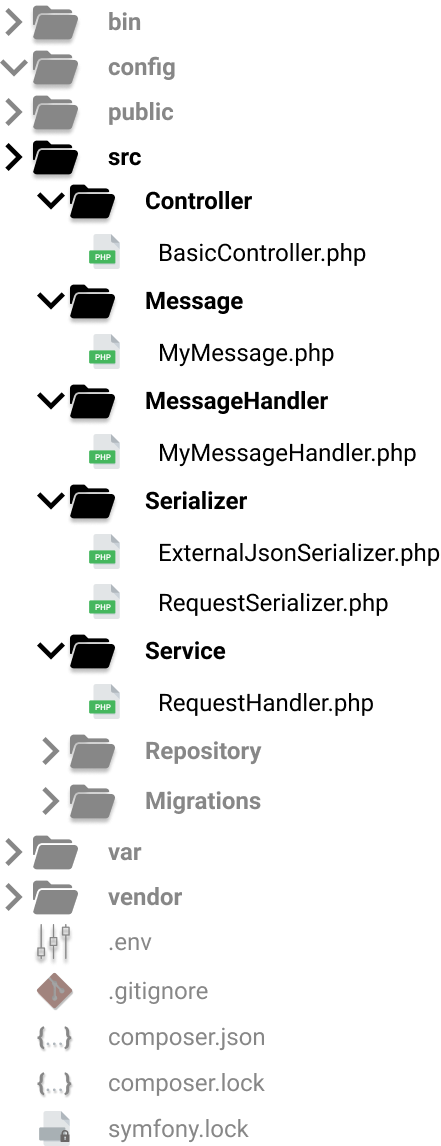
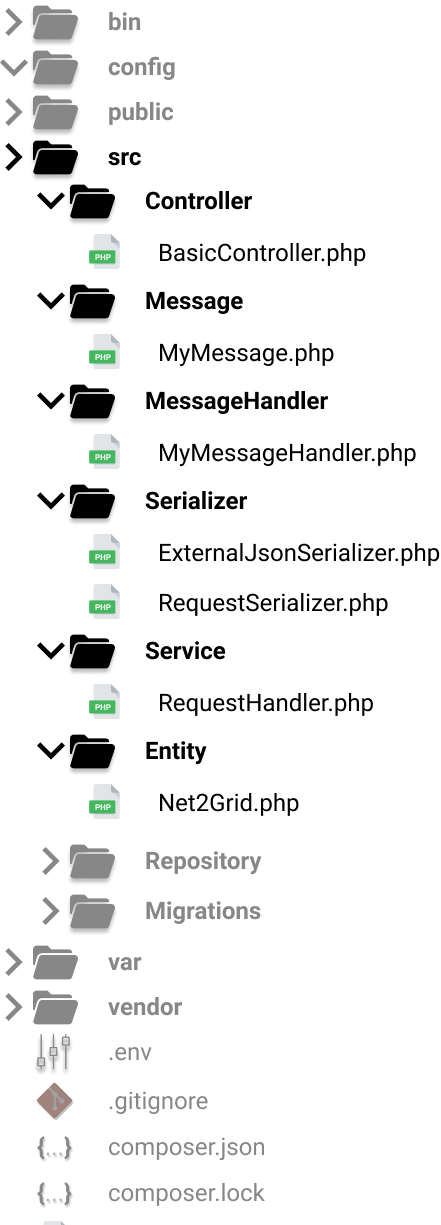
Updated the docs.

Changed region(s): [[0.0, 0.0, 1.0, 1.0]]

diff --git a/docs/docs/internals.md b/docs/docs/internals.md
@@ -1,34 +1,36 @@
-# The Big Picture
+# Application's Internals
 This section provides an extensive look at application's classes
 and how these are combined together to provide the desired functionality.
-
-## Project Structure
-The figure bellow shows part of the project structure, which contains several new classes.
-Each class has a specific responsibility, e.g. consuming data from an API, serializing the data,
-creating messages, etc. More details are provided later in this section.
-
-![](img/img4.png){: style="height:10%;width:30%;margin-left:5%"}
 
 ## Producing Messages
 In order to produce and publish messages to the queue, the following process is necessary.
 
-![](img/img5.png){: style="height:10%;width:90%; margin-left:1%"}
+![](img/img5.png){: style="height:10%;width:95%; margin-left:1%"}
 
 Several classes are involved in the process:
 
-### BasicController  
-Exposes an endpoint at `/basic/{num_of_messages: int}`{style="color:#EA6113;"}. Each time a request to this endpoint occurs, Symfony
+### BasicController
+
+![](img/controller.png){: style="height:10%;width:30%;margin-left:1%"}
+
+BasicController exposes an endpoint at `/basic/{num_of_messages: int}`{style="color:#EA6113;"}. Each time a request to this endpoint occurs, Symfony
 makes sure that BasicController.index() is invoked. There, the controller uses the <span style="color:#EE9B4E">requestHandler-></span><span style="color:#4EA1EE">sendRequest()</span> function, in order to receive a message (type of array) and a rooting key (type of string). The requestHandler is a `RequestHandler`{style="color:#EA6113;"} instance. Then, controller uses the function <span style="color:#4EA1EE">dispatch()</span>, provided by Symfony Messernger Component, in order to sent the message to the queue. The process is repeated for num_of_messages times. If num_of_messages is not specified, it is considered to be equal to 1.
 
 
 ### RequestHandler  
-Exposes a public method named <span style="color:#4EA1EE">sendRequest</span>. Each time <span style="color:#4EA1EE">sendRequest()</span> is invoked, a `GET`{style="color:#EA6113;"} request is sent at `https://a831bqiv1d.execute-api.eu-west-1.amazonaws.com/dev/results`{style="color:#EA6113;"}. The response is forwarded to a `RequestSerializer`{style="color:#EA6113;"} instance, in order to construct
+
+![](img/reqHandler.png){: style="height:10%;width:30%;margin-left:1%"}
+
+RequestHandler exposes a public method named <span style="color:#4EA1EE">sendRequest</span>. Each time <span style="color:#4EA1EE">sendRequest()</span> is invoked, a `GET`{style="color:#EA6113;"} request is sent at `https://a831bqiv1d.execute-api.eu-west-1.amazonaws.com/dev/results`{style="color:#EA6113;"}. The response is forwarded to a `RequestSerializer`{style="color:#EA6113;"} instance, in order to construct
 a message object, type of `MyMessage`{style="color:#EA6113;"} and a rooting key, type of string. Both the message and the rooting key are
 returned as function's result, to `BasicController`{style="color:#EA6113;"}.
 
 
 ### RequestSerializer
-Is responsible for de-serialization of responses, received by `RequestHandler`{style="color:#EA6113;"}. Each response
+
+![](img/reqSerializer.png){: style="height:10%;width:35%;margin-left:1%"}
+
+RequestSerializer is responsible for de-serialization of responses, received by `RequestHandler`{style="color:#EA6113;"}. Each response
 has the following format:
 
     {
@@ -47,7 +49,10 @@ php build-in function <span style="color:#4EA1EE">hex2dec_string</span>.
 
 
 ### MyMessage
-A common php class which defines the data that each queue message contains.
+
+![](img/message.png){: style="height:10%;width:25%;margin-left:1%"}
+
+MyMessage is a common php class which defines the data that each queue message contains.
 MyMessage has the following attributes:
 
 * value `int`{style="color:#EA6113;"}
@@ -67,7 +72,10 @@ corresponding class is named `MyMessageHandler`{style="color:#EA6113;"}.
 ![](img/img6.png){: style="height:10%;width:95%; margin-left:1%"}
 
 ### MyMessageHandler
-A class that implements `Symfony\Component\Messenger\Handler\MessageHandlerInterface`{style="color:#EA6113;"}.
+
+![](img/msgHandler.png){: style="height:10%;width:30%;margin-left:1%"}
+
+MyMessageHandler is a class that implements `Symfony\Component\Messenger\Handler\MessageHandlerInterface`{style="color:#EA6113;"}.
 Here we override the <span style="color:#4EA1EE">\__invoke(</span><span style="color:#7B0DAE">MyMessage</span> <span style="color:#EE9B4E">$msg</span><span style="color:#4EAEEE">)</span>, in order to define how to handle
 a message each time it is consumed. In our cases, a consumed message's attributes are used in order to create a `Net2Grid`{style="color:#EA6113;"} object, which allows us to store those data in the database.
 
@@ -78,7 +86,10 @@ Note that all we need to do, is declare that the <span style="color:#0E78DA">\__
     Note that all we need to do, is declare that the <span style="color:#0E78DA">\__invoke</span> function accepts as argument a </span>`MyMessage`{style="color:#7B0DAE;"} object. This way the Symfony Messenger Component knows to use this specific handler each time a message arrives in the Bus, in order to be consumed.
 
 ### Net2Grid
-This is a doctrine ORM Entity used to easily save data to the database. The Entity
+
+![](img/net2grid.png){: style="height:10%;width:22%;margin-left:1%"}
+
+Net2Grid is a doctrine ORM Entity used to easily save data to the database. The Entity
 has the following attributes:
 
 * id        `ID`{style="color:#EA6113;"}

diff --git a/docs/docs/structure.md b/docs/docs/structure.md
@@ -1,0 +1,55 @@
+## Project Structure
+The following figure shows part of the project structure, which contains several new classes.
+Each class has a specific responsibility, e.g. consuming data from an API, serializing the data,
+creating messages, etc. More details about the specific use of each class is provided in section [Application's Internals](internals.md). In this section we discuss about the functionality and the porpuse of classes inside
+these directories. Each directory under the src/ is used to define a group of classes, which have common functionality.
+
+![](img/img4.png){: style="height:10%;width:30%;margin-left:5%"}
+
+
+## Controller
+
+This directory contains classes that act as controllers. This directory contains classes that act as controllers. Controllers are used to decoupling classes and increase reusability. In Symfony, each controller may contain several methods bound to different endpoints, using annotations, which handle requests to the corresponding endpoints.
+
+
+## Message
+
+This directory contains classes that define the form of the messages, that will be sent to and received from the queue.
+
+
+## MessageHandler
+
+This directory contains classes whose purpose is to define how consumed messages will be handled. In order to achieve such behavior, each class must implements the `Symfony\Component\Messenger\Handler\MessageHandlerInterface`
+and thus, it must override the <span style="color:#4EA1EE">\__invoke</span> method. Each class in this directory is bound to a class under Message directory. Defining such a binding in Symfony 4 is really easy, since it is defined by the type of the argument provided in the <span style="color:#4EA1EE">\__invoke</span> function.
+
+
+## Serializer
+
+This directory contains classes that are used for abstracting the serialization, or de-serialization, of json objects, arrays, php objects, etc.
+
+
+## Service
+
+This directory contains classes which provide a specific and reusable functionality. 
+
+
+## Entity
+
+This directory contains classes that represent Doctrine entities and are used for easying integration with the database.
+
+
+## Repository
+
+This directory is auto-updated by Doctrine.
+
+
+## Migrations
+
+This directory is auto-updated by Doctrine. It contains migrations which can be used to update the database without
+using raw sql queries.
+
+
+
+
+
+

diff --git a/docs/docs/index.md b/docs/docs/index.md
@@ -29,7 +29,7 @@ Start by building the necessary images (skip if already done):
 
 Then start two containers in the background:
 
-    docker run -d -p 8010:8000 chris-consumer-img:latest --restart
+    docker run --restart=always -d -p 8010:8000 chris-consumer-img:latest
     docker run -d -p 8001:8000 chris-producer-img:latest
 
 Great! Both worker that consumes messages and a producer has start. The producer
@@ -48,7 +48,7 @@ using a container orchestration tool, user is responsible for manually restartin
 !!! warning
     A consumer container may to fail after some amount of time. Since we are not
     using a container orchestration tool, user is responsible for manually restarting it.
-    In order to avoid such situations, the --restart argument is provided to the docker run
+    In order to avoid such situations, the --restart=always argument is provided to the docker run
     command that starts the consumer's container.
 
 For more information about using the application it is strongly recommended to
